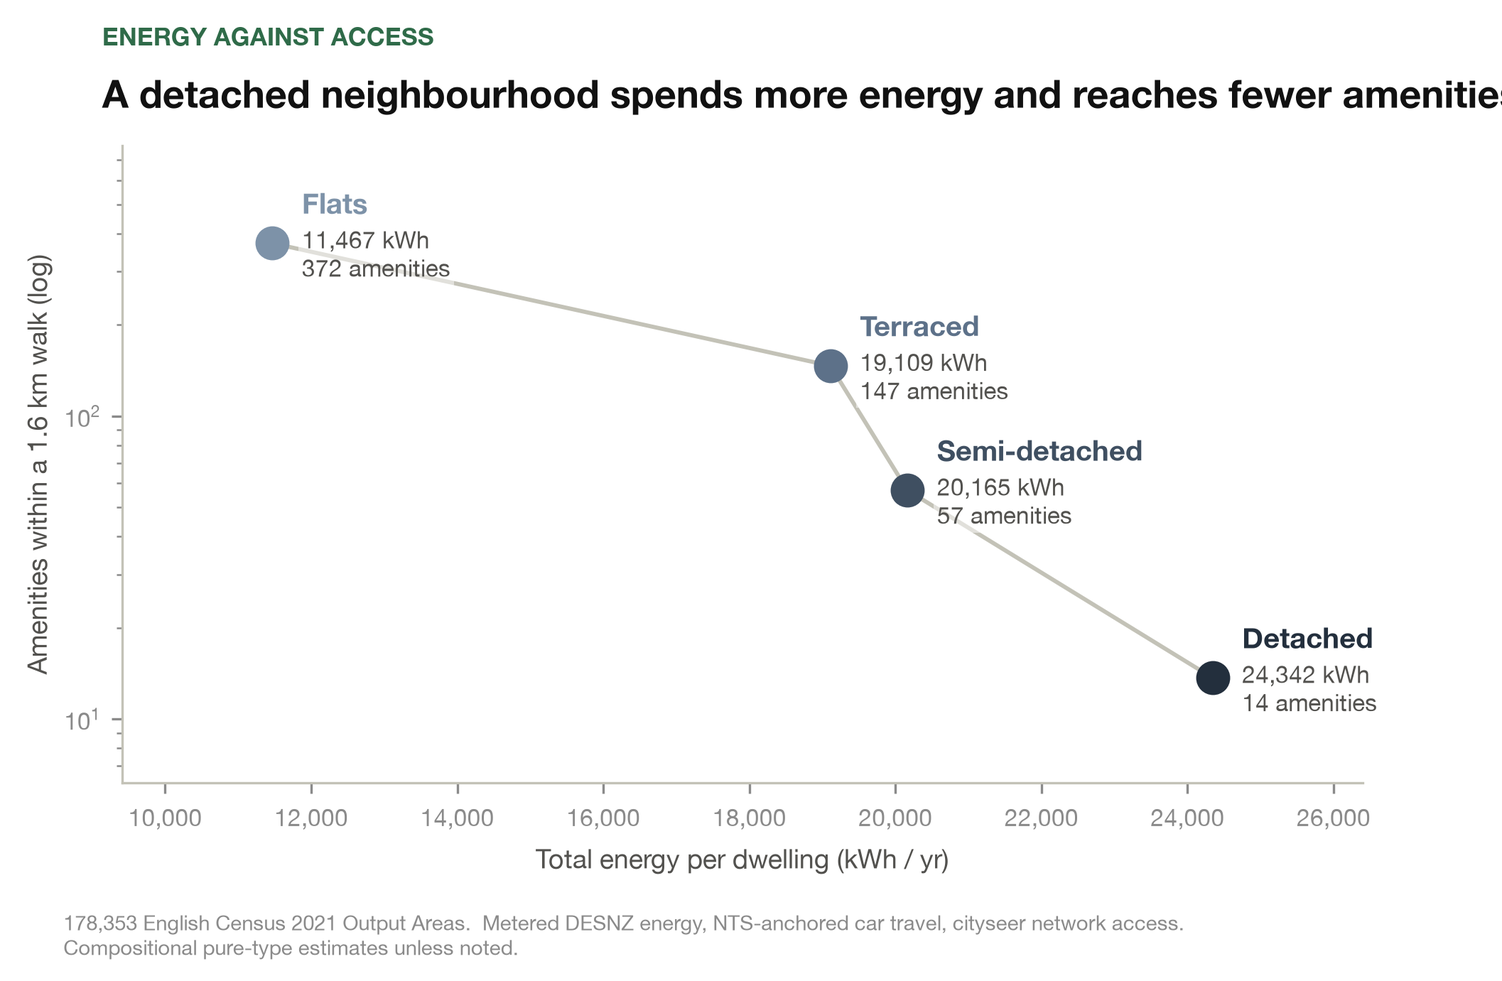
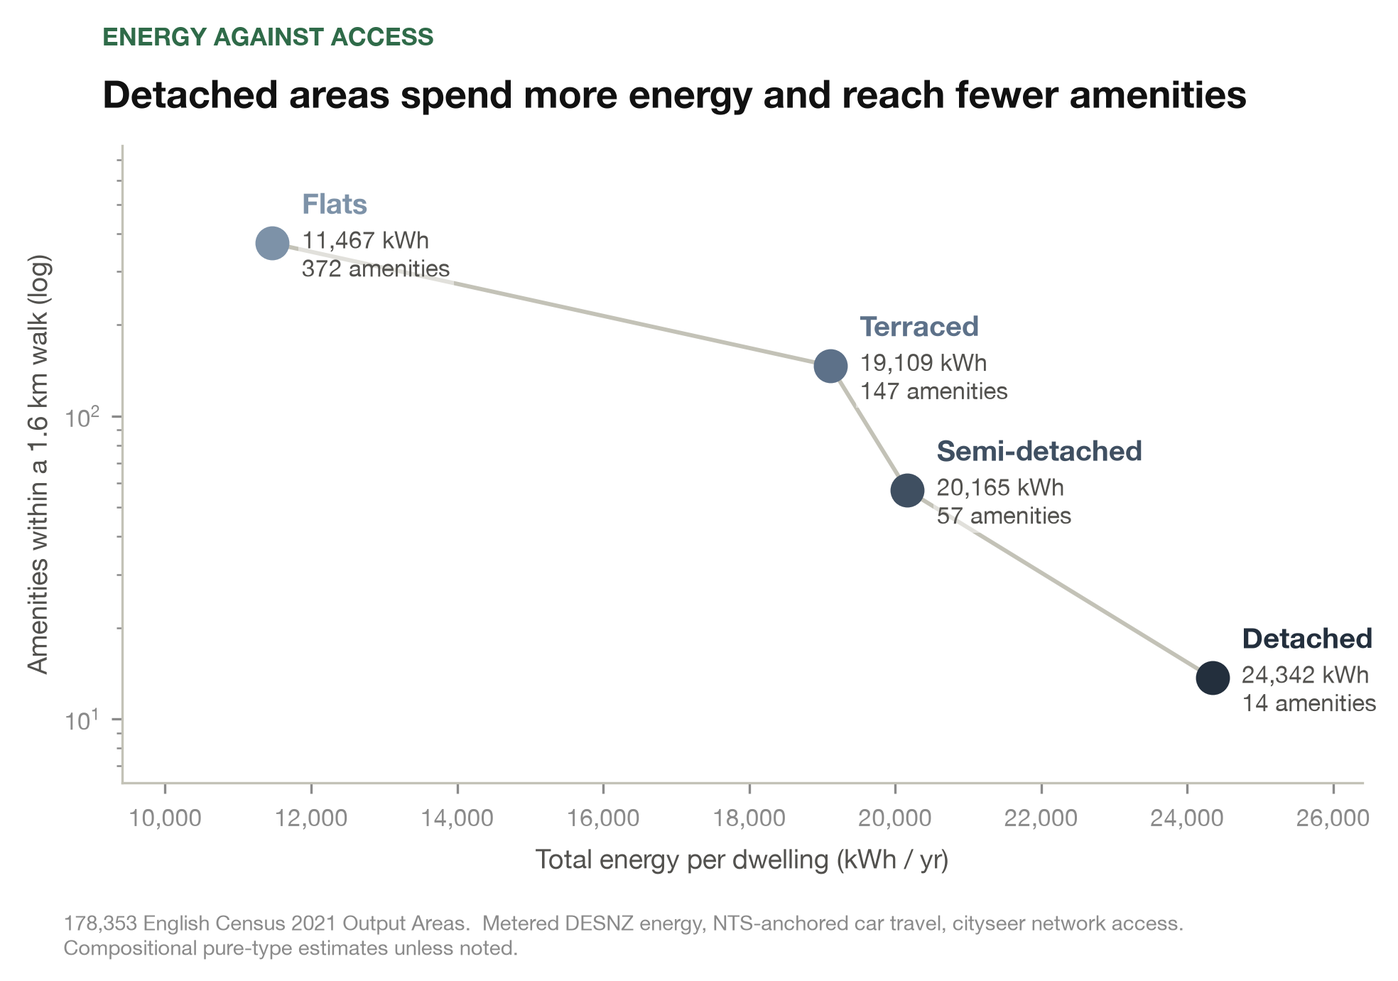
Rewrite the abstract from scratch; flow pass over the introduction; shorten the F1 headline
The abstract now follows the introduction's arc: form outlives the asset measures, the sufficiency question, measured comparison, results, and an urgency close on new development. Six junction repairs give the introduction given-first openers. Figure 1's deck title shortened to fit the column; figures regenerated with identical numbers.

diff --git a/paper/latex/main.tex b/paper/latex/main.tex
@@ -34,7 +34,7 @@
 \author[1]{\fnm{Matteo} \sur{TODO}}
 \affil*[1]{\orgdiv{Building Stock Lab, UCL Energy Institute}, \orgname{University College London}, \orgaddress{\city{London}, \country{United Kingdom}}}
 
-\abstract{Energy and decarbonisation policy evaluates homes and vehicles directly, yet together these assets constitute a neighbourhood form that sets limits on what the policies can achieve. Planning has long quantified proximity, but conventionally in counts and travel times, not in energy. This paper joins the two: it measures the access a neighbourhood obtains and the energy it spends, and the rate between them, an energy productivity for places analogous to that of economies. Together they reveal a structural lock-in that outlasts the piecemeal gains of asset replacement and embeds the penalty of dispersed form for generations. Across \nepisampleN{} Census 2021 Output Areas we measure network access to amenities, jobs, and people, total energy from metered gas and electricity plus survey-anchored car travel, and the rate between them. Comparing idealised pure dwelling types, a flat neighbourhood reaches about \nepiwalkAmenRound{} times the amenities of a detached one on foot. Matching that count costs the detached neighbourhood \nepitravelGap{} times the car-travel energy, and \nepitotalGapRound{} times the total energy per dwelling once home energy is included. Per unit of that car-travel energy, the flat obtains \nepirate{} times the access. Technology reduces consumption in compact and dispersed neighbourhoods alike, but closes neither gap. The most favourable case for the deployment pathway insulates every home to its certificate potential and electrifies every car; even then a dispersed neighbourhood spends \nepilockinGap{} times the energy of a compact one. Heat pumps widen the energy gap by cutting home consumption and leaving the larger travel gap dominant. The access gap remains unchanged in all scenarios, because no measure brings a destination closer. We therefore argue that decarbonisation strategy should place greater emphasis on compact urban form.}
+\abstract{Decarbonisation policy reduces the energy that homes and vehicles consume, through insulation, heat pumps, and electric vehicles. How much energy a neighbourhood needs, however, is also set by its form: compact neighbourhoods lose less heat through shared walls, and their residents drive less because destinations lie nearer. A neighbourhood's form outlives these measures, and the question is whether they can counteract the energy premium of dispersed form, or whether compact form deserves attention in its own right. We compare neighbourhoods across England's full range of dwelling mix, from flats to detached houses, on the energy their homes and cars consume and the access their residents obtain. Energy comes from meters and from the National Travel Survey, and access from counts over the road network, for \nepisampleN{} Census 2021 Output Areas, with contrasts read between idealised pure types. On foot, a flat neighbourhood reaches about \nepiwalkAmenRound{} times the amenities of a detached one; matching the count by driving costs the detached neighbourhood \nepitravelGap{} times the car-travel energy, and \nepitotalGapRound{} times the total energy per dwelling with home energy included. Per unit of car-travel energy, the flat neighbourhood obtains \nepirate{} times the access. Applying the three measures at the uptakes of the national pathway, and then in full, narrows the energy gap only part way. With every home insulated to its certificate potential and every car electric, the detached neighbourhood still spends \nepilockinGap{} times the energy and still reaches the same amenities only by driving. For new development, the results argue for urgent emphasis on compact form as a lever for reducing energy, to avoid locking in significant future demand.}
 
 \keywords{urban form, accessibility, energy, decarbonisation, compact city, neighbourhood}
 
@@ -46,21 +46,21 @@
 
 Energy and decarbonisation policy evaluates progress by the energy that homes and vehicles consume and the carbon they emit, and it targets the same assets with insulation, heat pumps, and electric vehicles \citep{ukgovernment2023,ccc2025}. The energy those homes and vehicles need, however, also depends on how cities are arranged. Dwellings in a more compact neighbourhood share more of their building envelope, so they lose less heat. Destinations also lie nearer, which reduces car use and the energy spent on travel. The morphology behind that demand receives little attention in energy policy. This approach may well suit the existing stock, whose form is already fixed, therefore requiring emphasis on demand-side measures; however, it risks leaving a blind spot in new urban development, where---even with insulation, heat pumps, and electric vehicles fully deployed---what is built now may exact an energy premium. Such a premium would be locked in, because only rebuilding could remove it and the embodied carbon of demolition and construction precludes rebuilding. The question is therefore whether these demand-side measures are sufficient to counteract the energy premium of dispersed urban form, or whether compact form deserves attention in its own right. We show that across \nepisampleN{} English neighbourhoods a dispersed neighbourhood spends about \nepitotalGapRound$\times$ the energy of a compact one, heating larger homes and driving further to reach a comparable count of everyday amenities. With every home insulated to its certificate potential and every car electric, it still spends \nepilockinGap$\times$ the energy. The premium that survives is locked into the form of the neighbourhood. Compact form therefore warrants greater weight in energy policy, above all in new development.
 
-We take as the departure point the premise that compact urban form affords higher energy productivity than dispersed urban form. This is inspired by Jane Jacobs's idea of ``energy in the conduit'' \citep{jacobs2000}: the greater the compactness, complexity, and diversity of a system, the more use it obtains from an equivalent unit of energy. The greater the intensity and complexity of a system's interdependencies, the more it is capable of harnessing and repeatedly recycling a unit of energy through the system before it is lost, therefore doing more with less, or, in another sense, getting additional use out of the same amount of energy ``for free''. Jacobs illustrated the idea with a rainforest and a desert: the rainforest folds a unit of incoming energy through many organisms and close exchanges, extracting use from it repeatedly before it dissipates. The desert, for an equivalent unit of energy, does substantially less, because the energy streams through and is lost without entering such exchanges. She applied the framing to economies \citep{jacobs1969,jacobs2000}, and the themes of her urban thinking, such as density, functional diversity, and interconnectedness, follow from the same principle \citep{jacobs1961}. Applied to cities, this notion implies that energy productivity \citep{patterson1996} should rise with urban compactness. Because cities are complex, the full implications of her account resist comprehensive measurement, but a related regularity has been quantified in the urban scaling literature. As cities grow, incomes, productivity, and innovation rise faster than population does, while infrastructure and service delivery require less per person \citep{bettencourt2007,glaeser2011}. Those results concern the size of cities rather than their form, but the same underlying concept is extrapolated here. At neighbourhood scale the principle shows in two ways. A given expenditure of energy houses more households, and those households obtain more access in return. We ask, from the perspective of domestic energy policy, whether both hold across England's morphological gradient from flats to detached houses, with each area's dwelling-type composition standing for its compactness. The first is measured as the total energy a neighbourhood spends to house a household, the second as the access gained per unit of the energy spent on travel, hereafter the rate.
+The premise behind the study is that compact urban form affords higher energy productivity than dispersed urban form. This is inspired by Jane Jacobs's idea of ``energy in the conduit'' \citep{jacobs2000}: the greater the compactness, complexity, and diversity of a system, the more use it obtains from an equivalent unit of energy. The greater the intensity and complexity of a system's interdependencies, the more it is capable of harnessing and repeatedly recycling a unit of energy through the system before it is lost, therefore doing more with less, or, in another sense, getting additional use out of the same amount of energy ``for free''. Jacobs illustrated the idea with a rainforest and a desert: the rainforest folds a unit of incoming energy through many organisms and close exchanges, extracting use from it repeatedly before it dissipates. The desert, for an equivalent unit of energy, does substantially less, because the energy streams through and is lost without entering such exchanges. She applied the framing to economies \citep{jacobs1969,jacobs2000}, and the themes of her urban thinking, such as density, functional diversity, and interconnectedness, follow from the same principle \citep{jacobs1961}. Applied to cities, this notion implies that energy productivity \citep{patterson1996} should rise with urban compactness. Because cities are complex, the full implications of her account resist comprehensive measurement, but a related regularity has been quantified in the urban scaling literature. As cities grow, incomes, productivity, and innovation rise faster than population does, while infrastructure and service delivery require less per person \citep{bettencourt2007,glaeser2011}. Those results concern the size of cities rather than their form, but the same underlying concept is extrapolated here. At neighbourhood scale the principle shows in two ways. A given expenditure of energy houses more households, and those households obtain more access in return. We ask, from the perspective of domestic energy policy, whether both hold across England's morphological gradient from flats to detached houses, with each area's dwelling-type composition standing for its compactness. The first is measured as the total energy a neighbourhood spends to house a household, the second as the access gained per unit of the energy spent on travel, hereafter the rate.
 
-The policy instruments in current use are aimed at individual assets: fabric standards and retrofit subsidy keyed to the energy certificate, heat-pump deployment targets, and vehicle electrification mandates \citep{ukgovernment2023,ccc2025}. These instruments are usually criticised for accuracy, since certificate ratings routinely over-predict the energy that homes use \citep{summerfield2019,few2023,sunikka-blank2012}. The criticism made here concerns what the instruments measure rather than their accuracy. On the building side, a certificate rates a dwelling against its own fabric and services, per square metre of floor area. A compact home and a dispersed one can therefore carry the same rating while consuming different amounts of energy, because the rating is normalised by floor area and the dispersed home is larger. On the travel side, dispersed urban form sets the distances residents drive, yet policy focuses mainly on vehicle efficiency rather than on those distances. Compact development reduces driving \citep{trb2009,ewing2018}, and local amenity supply is the primary determinant of trip-making \citep{abbiasov2024}. Cities where more destinations lie within a walk emit less transport carbon per person \citep{marzolla2025}. Modelling suggests that electrifying cars without reducing driving cuts emissions too slowly to stay within carbon budgets \citep{winkler2023}. Planning has long attended to neighbourhood form, from the critique of automobile dependence to compact cities and the fifteen-minute city \citep{newman1999,rode2017,moreno2021}, but its metrics are chiefly counts and travel times. Neither approach conventionally states what a neighbourhood's compactness is worth in energy.
+The policy instruments in current use are aimed instead at individual assets: fabric standards and retrofit subsidy keyed to the energy certificate, heat-pump deployment targets, and vehicle electrification mandates \citep{ukgovernment2023,ccc2025}. These instruments are usually criticised for accuracy, since certificate ratings routinely over-predict the energy that homes use \citep{summerfield2019,few2023,sunikka-blank2012}. The criticism made here concerns what the instruments measure rather than their accuracy. On the building side, a certificate rates a dwelling against its own fabric and services, per square metre of floor area. A compact home and a dispersed one can therefore carry the same rating while consuming different amounts of energy, because the rating is normalised by floor area and the dispersed home is larger. On the travel side, dispersed urban form sets the distances residents drive, yet policy focuses mainly on vehicle efficiency rather than on those distances. Compact development reduces driving \citep{trb2009,ewing2018}, and local amenity supply is the primary determinant of trip-making \citep{abbiasov2024}. Cities where more destinations lie within a walk emit less transport carbon per person \citep{marzolla2025}. Modelling suggests that electrifying cars without reducing driving cuts emissions too slowly to stay within carbon budgets \citep{winkler2023}. Planning has long attended to neighbourhood form, from the critique of automobile dependence to compact cities and the fifteen-minute city \citep{newman1999,rode2017,moreno2021}, but its metrics are chiefly counts and travel times. Neither approach conventionally states what a neighbourhood's compactness is worth in energy.
 
 We combine the planning literature's attention to compact urban form with the energy metrics of decarbonisation policy. For the whole of England, at neighbourhood resolution, we evaluate the dwelling mix across its full spectrum, from flats through terraced and semi-detached houses to detached ones. For each neighbourhood we measure the energy its homes and its cars consume and the access its residents obtain, both taken from measured records rather than from models. Together they express, in Jacobs's terms, the use each neighbourhood obtains from the energy it spends. We then apply the demand-side measures in full, insulating every home and electrifying every car, and read the energy gap that remains between compact and dispersed forms as the lock-in.
 
-Two strands of earlier work approach this combination, each measuring one of the two quantities and modelling or omitting the other. The first, in transport and accessibility research, developed the idea of valuing access by what it costs to obtain. Hou and colleagues constructed the mobility energy productivity metric to measure the quality of mobility a United States location affords \citep{hou2019}. It counts the opportunities reachable from a place, weighted by the time, money, and energy required. Kinigadner and colleagues inverted the budget, asking how many destinations can be reached within a fixed emission allowance \citep{kinigadner2020}. In full cost accessibility, Cui and Levinson brought crash risk and emissions into the monetised travel cost against which accessibility is computed \citep{cui2018}. All three are appraisal tools for locations and proposals, and their energy terms are modelled rather than measured.
+Each half of this design has a precedent in earlier work. The first, in transport and accessibility research, developed the idea of valuing access by what it costs to obtain. Hou and colleagues constructed the mobility energy productivity metric to measure the quality of mobility a United States location affords \citep{hou2019}. It counts the opportunities reachable from a place, weighted by the time, money, and energy required. Kinigadner and colleagues inverted the budget, asking how many destinations can be reached within a fixed emission allowance \citep{kinigadner2020}. In full cost accessibility, Cui and Levinson brought crash risk and emissions into the monetised travel cost against which accessibility is computed \citep{cui2018}. All three are appraisal tools for locations and proposals, and their energy terms are modelled rather than measured.
 
-The second strand, in energy research, measures what households consume. Chatterton and colleagues mapped direct energy use across the 34,753 Lower-layer Super Output Areas of England and Wales, neighbourhoods averaging 1,600 residents, joining metered gas and electricity with car energy from odometer readings \citep{chatterton2016}. Their purpose was distributional: a minority of areas consume far more than the rest, and carbon policy, they argued, should attend to high consumers as well as the energy poor. They also arrived at this paper's question from the energy side, asking whether high consumption reflects need or choice, with housing type and poor accessibility among the candidates, and framing the constrained case as lock-in. Answering that question requires a measure of access, which their record does not contain, and a finer unit, because compact and dispersed forms interleave within a single town. The Output Areas used here sit one census level below their Super Output Areas, typically five to each; at about 125 households, they are small enough for a single dwelling type to dominate.
+The second, in energy research, measures what households consume. Chatterton and colleagues mapped direct energy use across the 34,753 Lower-layer Super Output Areas of England and Wales, neighbourhoods averaging 1,600 residents, joining metered gas and electricity with car energy from odometer readings \citep{chatterton2016}. Their purpose was distributional: a minority of areas consume far more than the rest, and carbon policy, they argued, should attend to high consumers as well as the energy poor. They also arrived at this paper's question from the energy side, asking whether high consumption reflects need or choice, with housing type and poor accessibility among the candidates, and framing the constrained case as lock-in. Answering that question requires a measure of access, which their record does not contain, and a finer unit, because compact and dispersed forms interleave within a single town. The Output Areas used here sit one census level below their Super Output Areas, typically five to each; at about 125 households, they are small enough for a single dwelling type to dominate.
 
-The energy and access measured for each neighbourhood are fitted on its dwelling-type mix, holding the confounds constant. Both gaps are read between idealised pure types, from all flats to all detached houses. The rate is formed from the access and the travel component of the energy rather than fitted separately. We therefore ask how much of the gap the demand-side measures can close. Each neighbourhood's energy is recomputed with insulation, heat pumps, and electric vehicles applied separately, at the uptakes of England's advised pathway and at full deployment \citep{ccc2025}.
+The energy and access measured for each neighbourhood are fitted on its dwelling-type mix, holding the confounds constant. Both gaps are read between idealised pure types, from all flats to all detached houses. The rate is formed from the access and the travel component of the energy rather than fitted separately. We then ask how much of the gap the demand-side measures can close. Each neighbourhood's energy is recomputed with insulation, heat pumps, and electric vehicles applied separately, at the uptakes of England's advised pathway and at full deployment \citep{ccc2025}.
 
-There are three hazards that could mislead the comparison between compact and dispersed forms. The first is how home energy is measured. Modelled energy exaggerates the contrast between forms: simulation places the heat-demand gap between detached and compact archetypes at up to sixfold \citep{rode2014}, while metered analyses put detached gas consumption at about twice that of a flat \citep{need2024,ehs2024,wyatt2013}. The exaggeration arises because certificate ratings are modelled and noisily assessed \citep{crawley2019}, and they over-predict consumption most for the largest dwellings \citep{summerfield2019,few2023,firth2024}. Home energy therefore comes from meters. The second hazard is inferring travel from density. Density is associated with lower car use \citep{newman1989}, but the effect is modest \citep{ewing2017,echenique2012}, contested at the metropolitan scale \citep{gaigne2012,mindali2004}, and better read as one of accessibility \citep{ewing2018,ellder2022}. Travel energy therefore comes from measured national mileage, with the allocation assumptions swept in the robustness analysis, and access is counted over the road network rather than proxied by density.
+The comparison between compact and dispersed forms is subject to three hazards. The first is how home energy is measured. Modelled energy exaggerates the contrast between forms: simulation places the heat-demand gap between detached and compact archetypes at up to sixfold \citep{rode2014}, while metered analyses put detached gas consumption at about twice that of a flat \citep{need2024,ehs2024,wyatt2013}. The exaggeration arises because certificate ratings are modelled and noisily assessed \citep{crawley2019}, and they over-predict consumption most for the largest dwellings \citep{summerfield2019,few2023,firth2024}. Home energy therefore comes from meters. The second hazard is inferring travel from density. Density is associated with lower car use \citep{newman1989}, but the effect is modest \citep{ewing2017,echenique2012}, contested at the metropolitan scale \citep{gaigne2012,mindali2004}, and better read as one of accessibility \citep{ewing2018,ellder2022}. Travel energy therefore comes from measured national mileage, with the allocation assumptions swept in the robustness analysis, and access is counted over the road network rather than proxied by density.
 
-The third hazard is the choice of denominator. Energy per person, per dwelling, and per square metre give different verdicts: a low-density premium that is large per capita narrows or reverses per square metre \citep{norman2006}. Two people sharing a home use less than twice the energy of one \citep{druckman2008,huebner2017}, and a large home spreads its heating over more floor area, so dividing by persons or by square metres rewards the larger household or the larger home. Energy therefore enters per dwelling, and household size and floor area enter as controls, with their effects estimated from the data rather than fixed by the choice of denominator. A final caution concerns who lives where. Households choose their dwellings \citep{cao2009,stevens2017}, so the comparison is between places rather than between households, describing a neighbourhood type conditional on the observed confounds. Its exposure to residential self-selection is bounded with a coefficient-stability test. Figure~\ref{fig:inversion} sets energy against access for the four dwelling types.
+The third hazard is the choice of denominator. Energy per person, per dwelling, and per square metre give different verdicts: a low-density premium that is large per capita narrows or reverses per square metre \citep{norman2006}. Two people sharing a home use less than twice the energy of one \citep{druckman2008,huebner2017}, and a large home spreads its heating over more floor area, so dividing by persons or by square metres rewards the larger household or the larger home. Energy therefore enters per dwelling, and household size and floor area enter as controls, with their effects estimated from the data rather than fixed by the choice of denominator. A final caution concerns who lives where. Households choose their dwellings \citep{cao2009,stevens2017}, so the comparison is between places rather than between households, describing a neighbourhood type conditional on the observed confounds. Its exposure to residential self-selection is bounded with a coefficient-stability test. Figure~\ref{fig:inversion} shows that comparison, setting energy against access for the four dwelling types.
 
 \begin{figure}[t]
   \centering

diff --git a/stats/argument_figures.py b/stats/argument_figures.py
@@ -155,7 +155,7 @@ def inversion(cf: pd.DataFrame, confounds: list[str], income: list[str]) -> None
     fs.deck(
         ax,
         "Energy against access",
-        "A detached neighbourhood spends more energy and reaches fewer amenities",
+        "Detached areas spend more energy and reach fewer amenities",
     )
     fs.footer(fig)
     print(f"  F1 inversion: energy {e_ratio:.2f}× · access {a_ratio:.0f}×")
